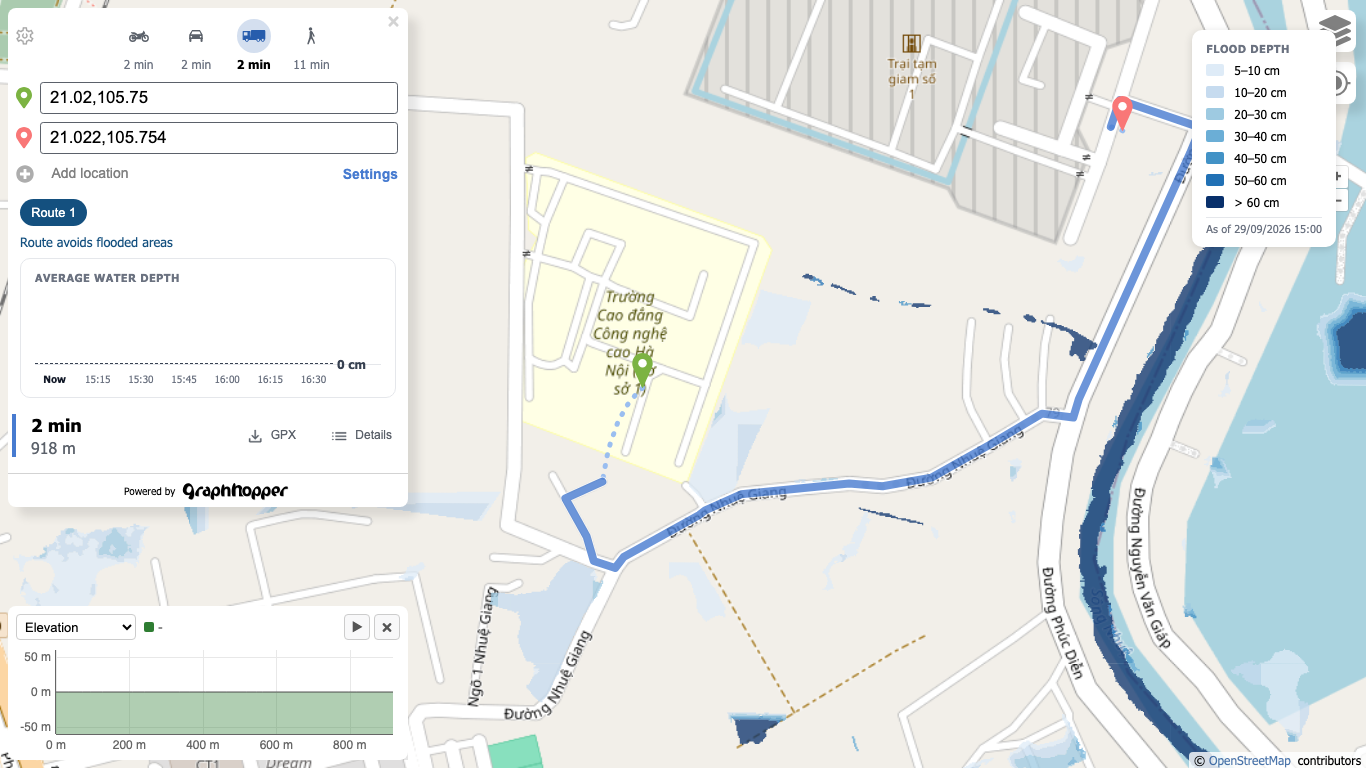
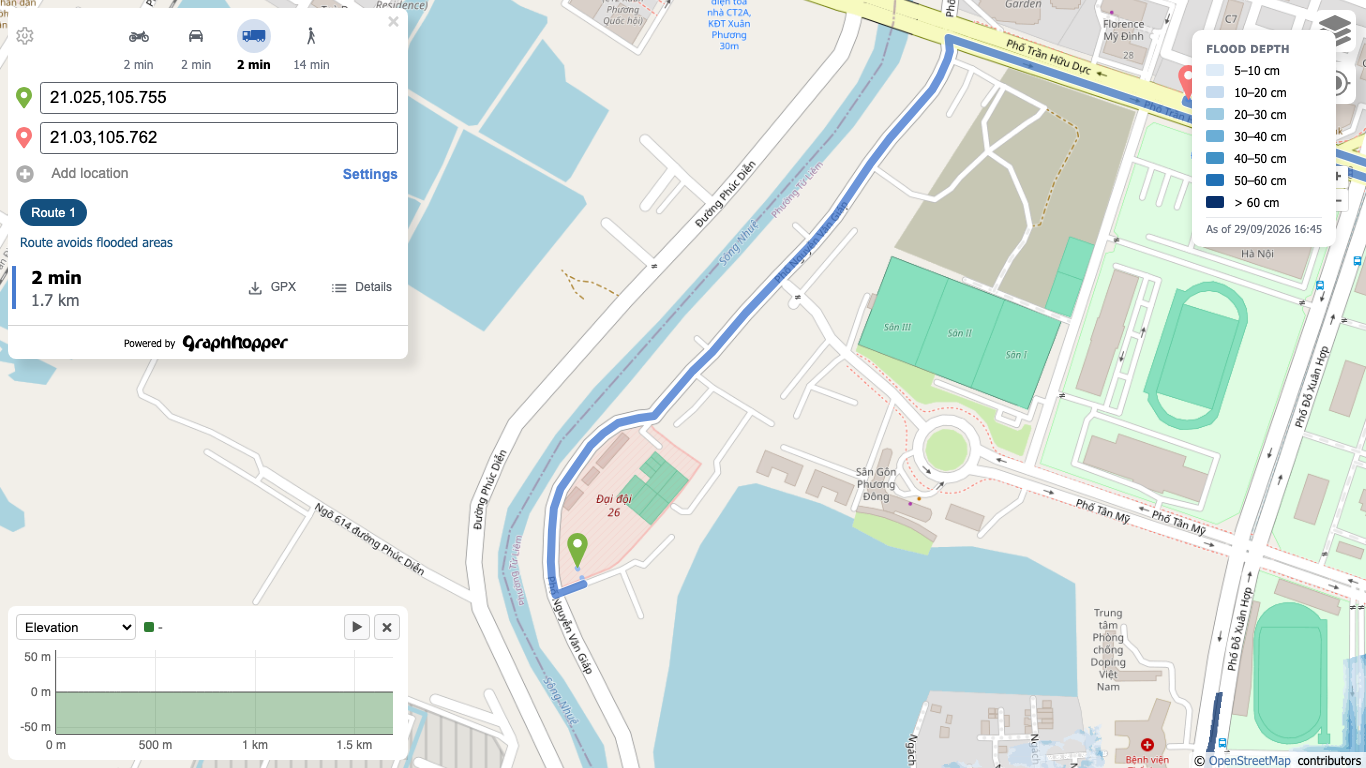
Save a truck-profile screenshot as the story's evidence
The story named frontend-truck-profile.png, but the file was never saved, so
its Evidence paragraph described an image that did not exist. This is a fresh
capture from the rebuilt frontend: four modes, truck selected, a 1.7 km route.
The paragraph now describes this image, and the history keeps the earlier note.

diff --git a/artifacts/docs/user-stories/truck-routing-profile.md b/artifacts/docs/user-stories/truck-routing-profile.md
@@ -40,9 +40,12 @@ route from the live backend.
 
 ![[frontend-truck-profile.png|420]]
 
-Rendered UI captured 2026-09-29 15:09 (UTC+7) on `100.67.84.55:8082` at 1366x768, on the run
-`20260929T150000`: the profile row shows four modes with a travel time under each, truck is
-selected and bold, and the route is 918 m. The depth chart also renders again on this fresh run.
+Rendered UI captured 2026-09-29 18:06 UTC in a headless browser at 1366x768, opened on
+`100.67.84.55:8082` (the address bar is not in the image). The map legend reads "As of 29/09/2026 16:45".
+The profile row shows four modes with a travel time under each: motorbike 2 min, car 2 min, truck 2 min,
+and foot 14 min. Truck is selected and bold. The route from 21.025, 105.755 to 21.03, 105.762 is 1.7 km
+and 2 min, and the panel says "Route avoids flooded areas". The live route API returned 1,694 m and 141 s
+for the same pair with the truck profile.
 
 ## Details
 
@@ -72,6 +75,9 @@ fourth request per query.
 - **2026-09-29, draft.** Done. Added `truck: {}` to `config-local.js.example`, rebuilt and recreated
   `flood-routing-frontend` on the server, and confirmed four modes in the live UI with a truck route
   of 918 m. Evidence saved as `frontend-truck-profile.png`.
+- **2026-09-30, draft.** The screenshot named above was never saved, and the 918 m route it described was not
+  recorded anywhere else. Saved a new capture as `frontend-truck-profile.png` from the frontend rebuilt on the merged
+  branch: four modes, truck selected, a 1.7 km route. The Evidence paragraph now describes this image.
 
 This is the simple story shape: one sprint, one objective. See [[user-story-types]] for the epic,
 thematic, and SAFe shapes and when each one fits.
